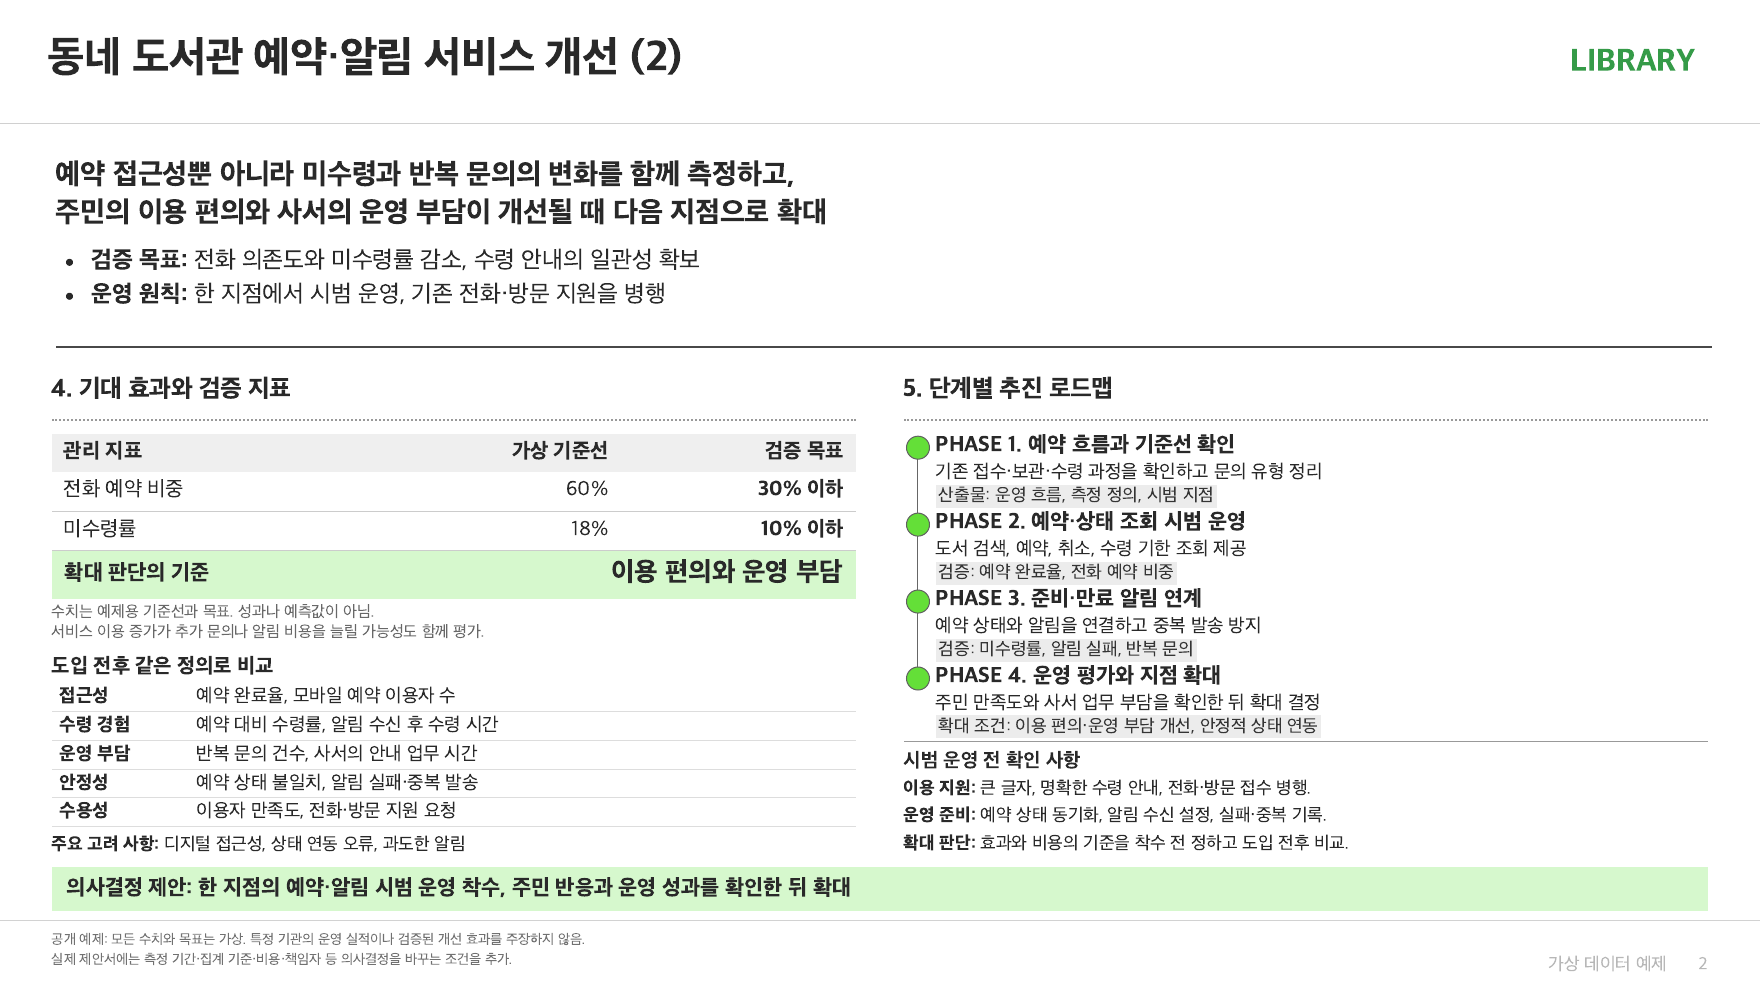
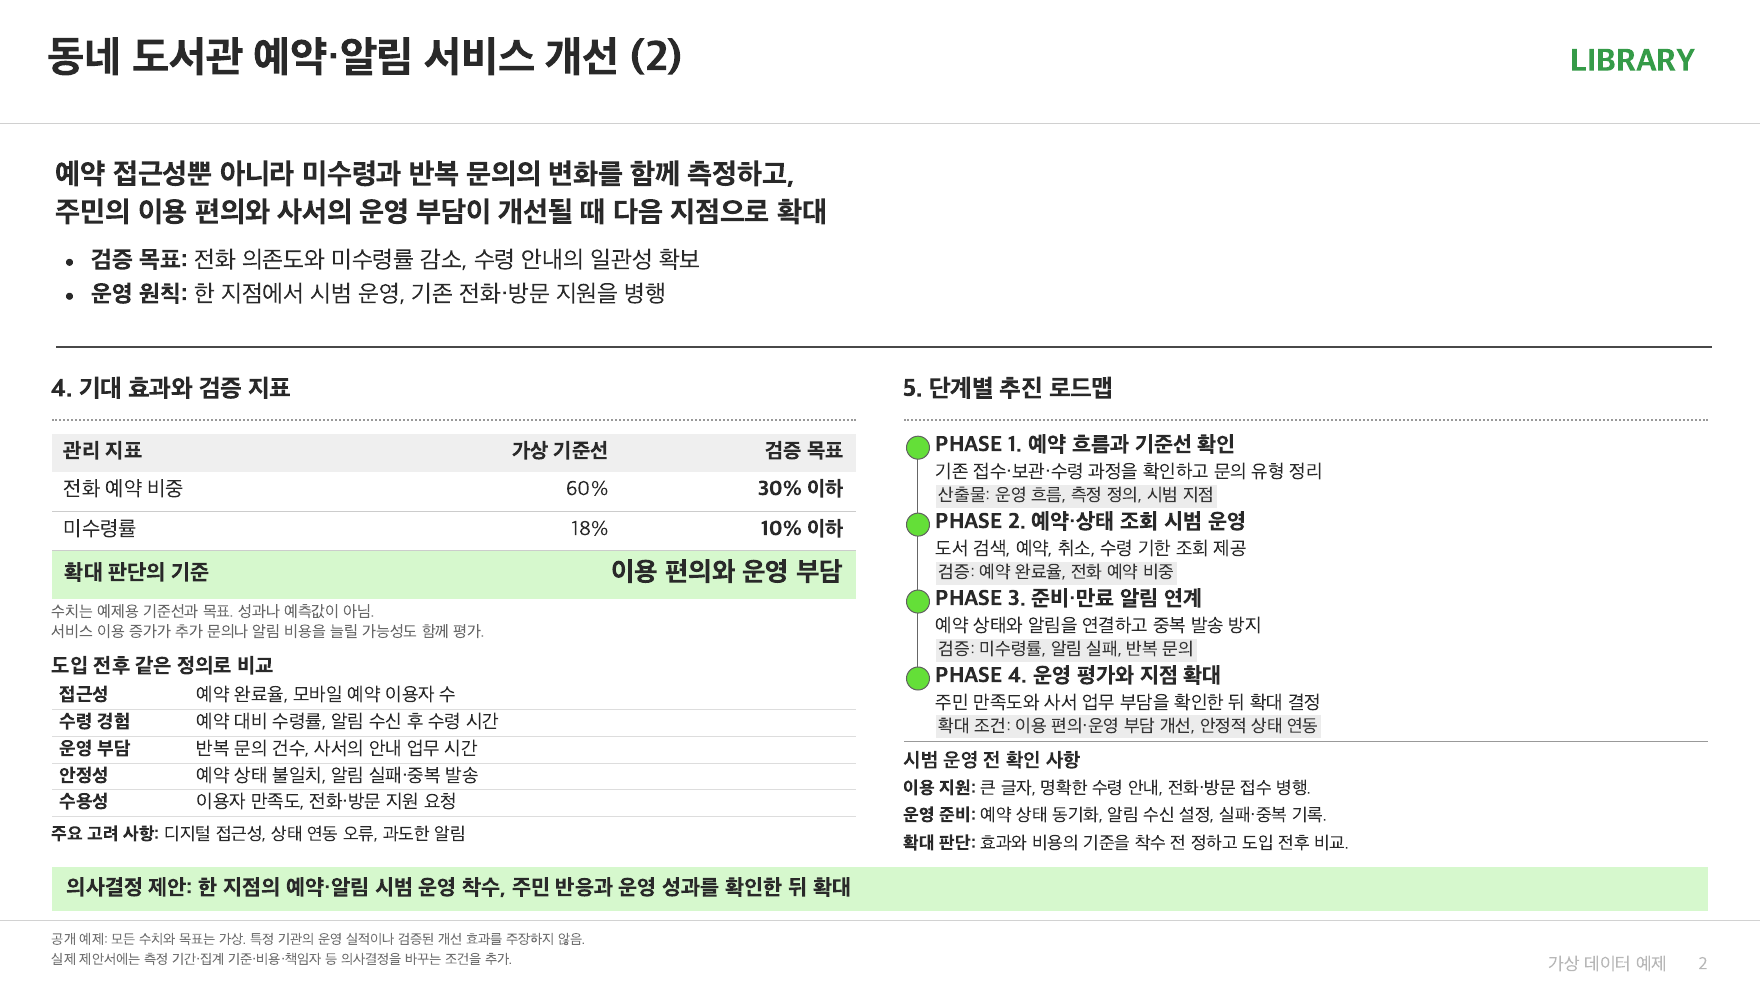
Leave clearance below metrics across Korean font families

Changed region(s): [[0.0312, 0.697, 0.2812, 0.8788]]

diff --git a/docs/library-two-pager.html b/docs/library-two-pager.html
@@ -59,7 +59,7 @@ a:focus-visible { outline:2px solid #35931d; outline-offset:2px; }
 .subhead { font-size:21px; line-height:1.2; margin:10px 0 4px; font-weight:730; }
 .metric-table { width:100%; border-collapse:collapse; font-size:19px; line-height:1.25; }
 .metric-table th { width:137px; text-align:left; white-space:nowrap; font-weight:720; }
-.metric-table th,.metric-table td { border-bottom:1px solid #ddd; padding:2px 8px; }
+.metric-table th,.metric-table td { border-bottom:1px solid #ddd; padding:1px 8px; }
 .risk { margin-top:7px; font-size:18px; line-height:1.25; }
 .timeline { position:relative; padding-left:32px; }
 .roadmap-layout { display:grid; grid-template-columns:1fr 192px; gap:18px; }

diff --git a/skills/two-pager/assets/two-pager.html b/skills/two-pager/assets/two-pager.html
@@ -59,7 +59,7 @@ a:focus-visible { outline:2px solid #35931d; outline-offset:2px; }
 .subhead { font-size:21px; line-height:1.2; margin:10px 0 4px; font-weight:730; }
 .metric-table { width:100%; border-collapse:collapse; font-size:19px; line-height:1.25; }
 .metric-table th { width:137px; text-align:left; white-space:nowrap; font-weight:720; }
-.metric-table th,.metric-table td { border-bottom:1px solid #ddd; padding:2px 8px; }
+.metric-table th,.metric-table td { border-bottom:1px solid #ddd; padding:1px 8px; }
 .risk { margin-top:7px; font-size:18px; line-height:1.25; }
 .timeline { position:relative; padding-left:32px; }
 .roadmap-layout { display:grid; grid-template-columns:1fr 192px; gap:18px; }
